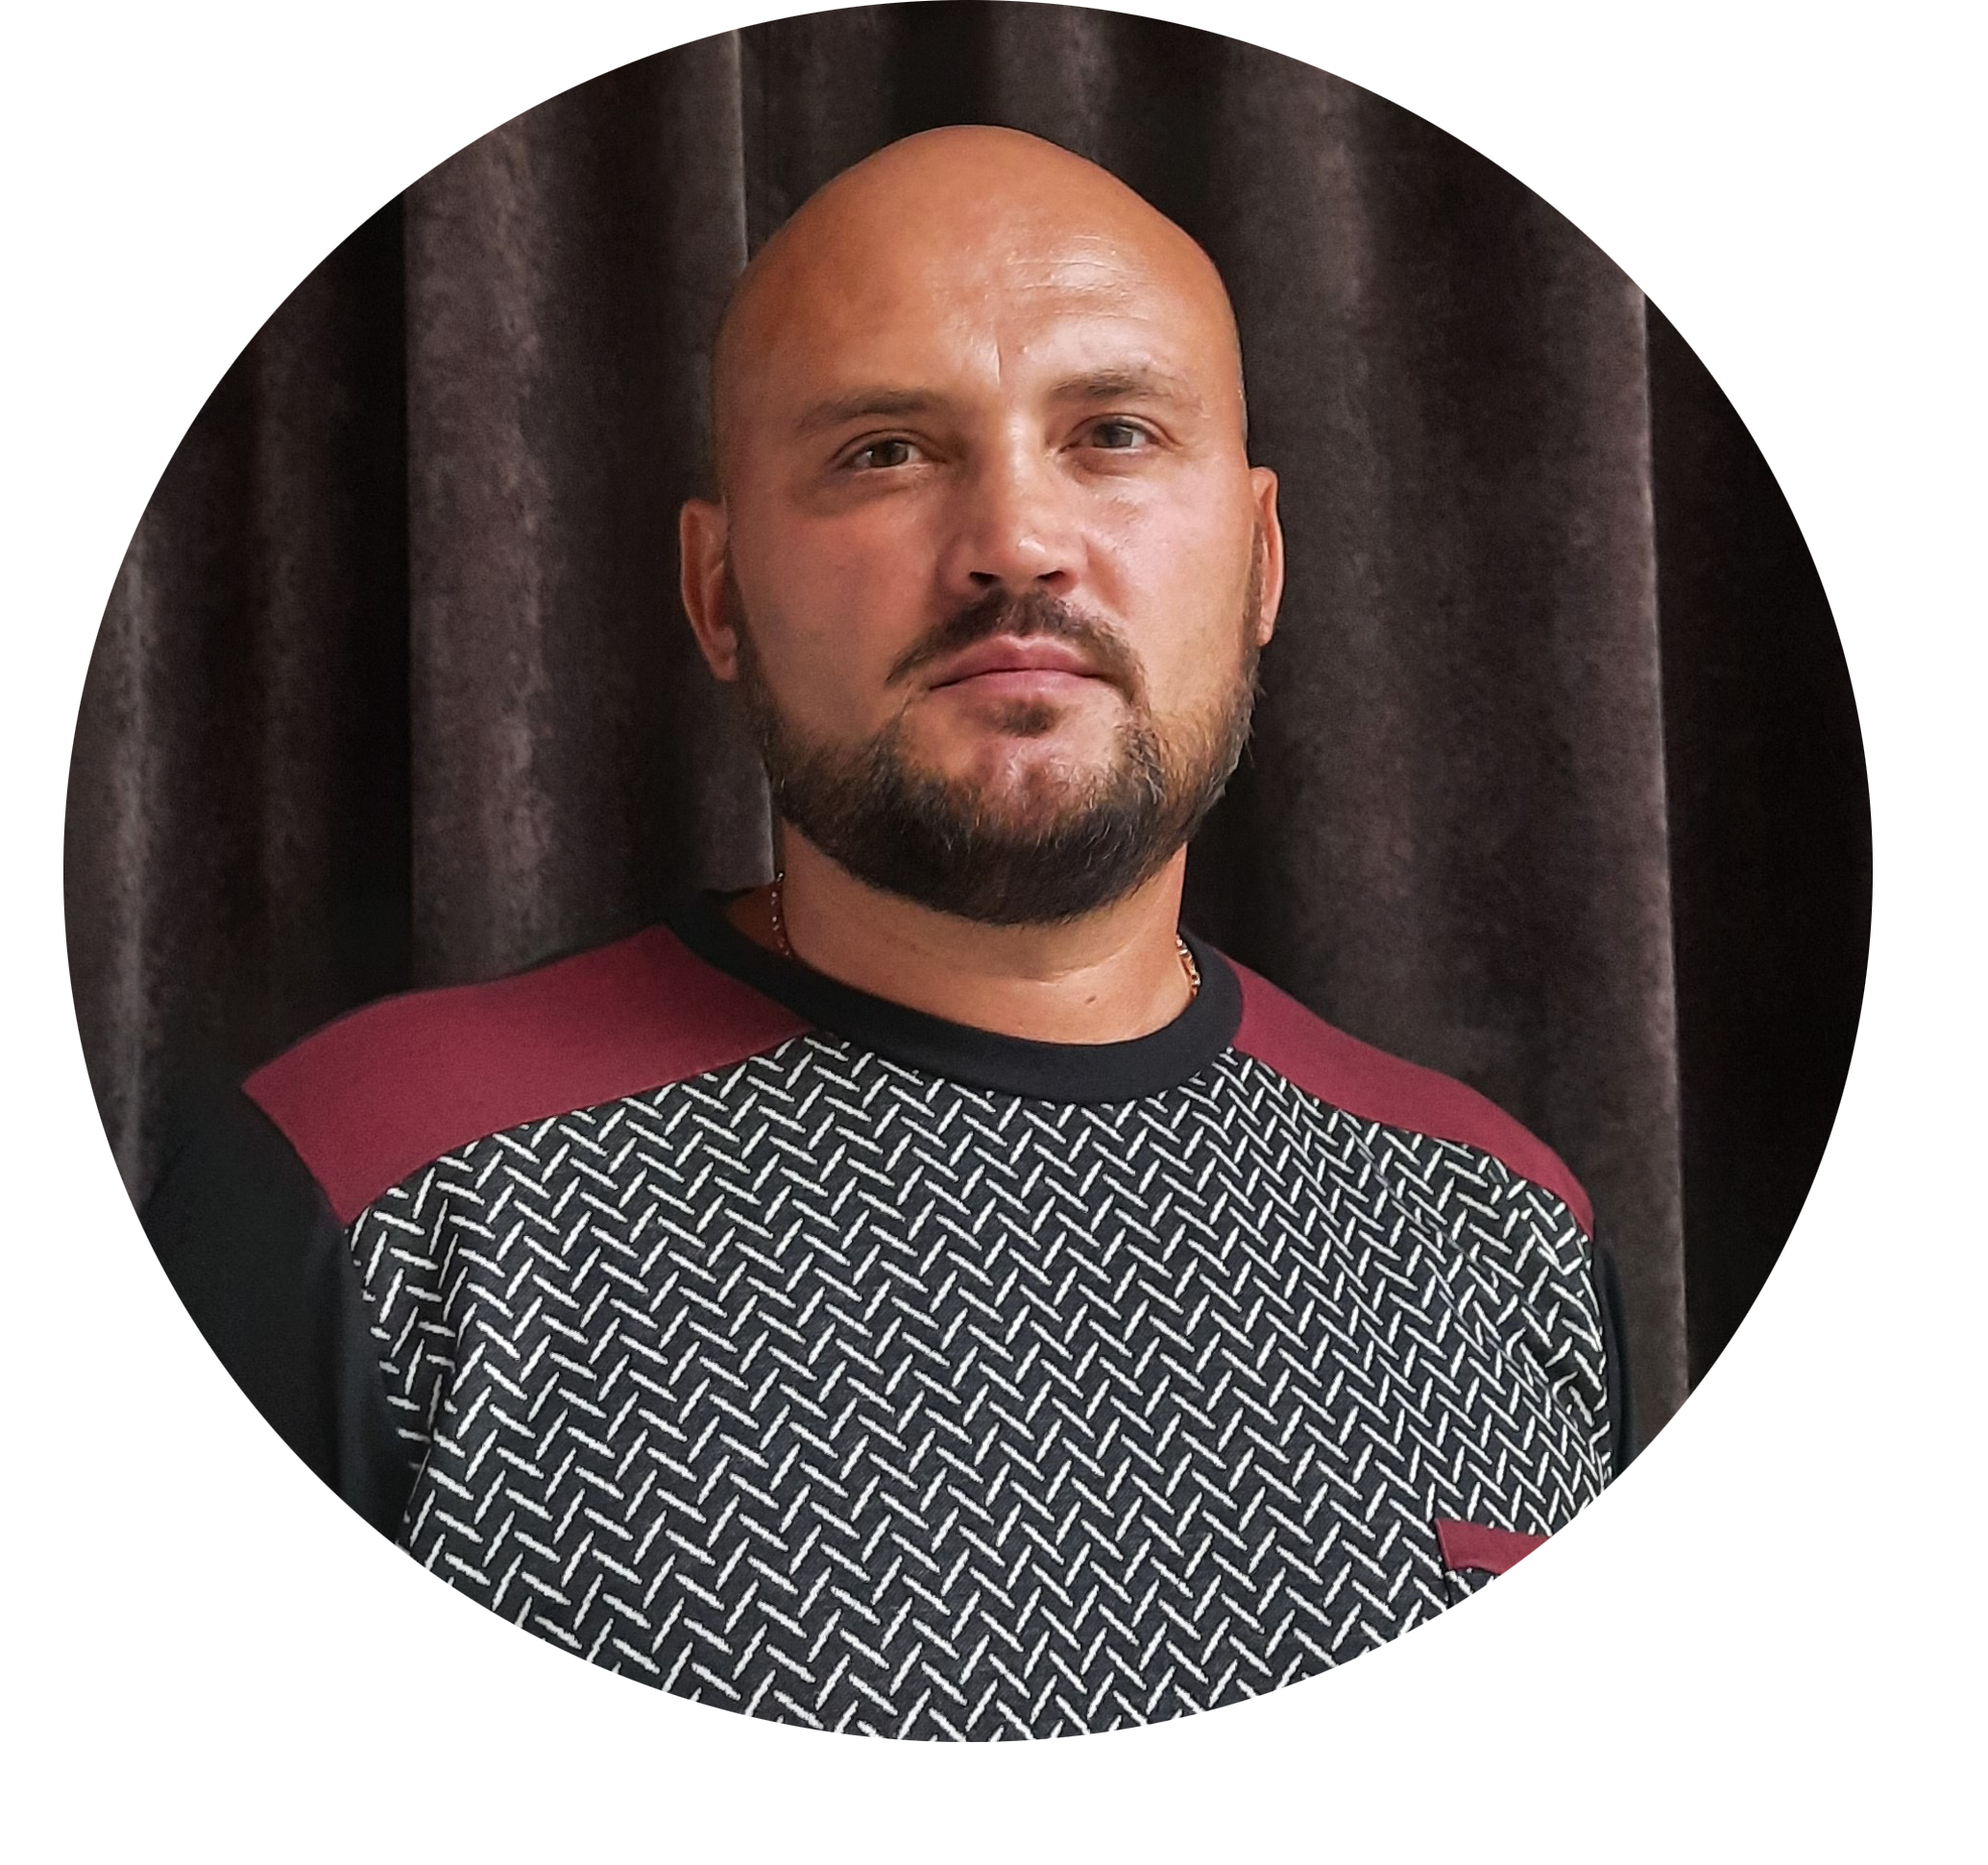
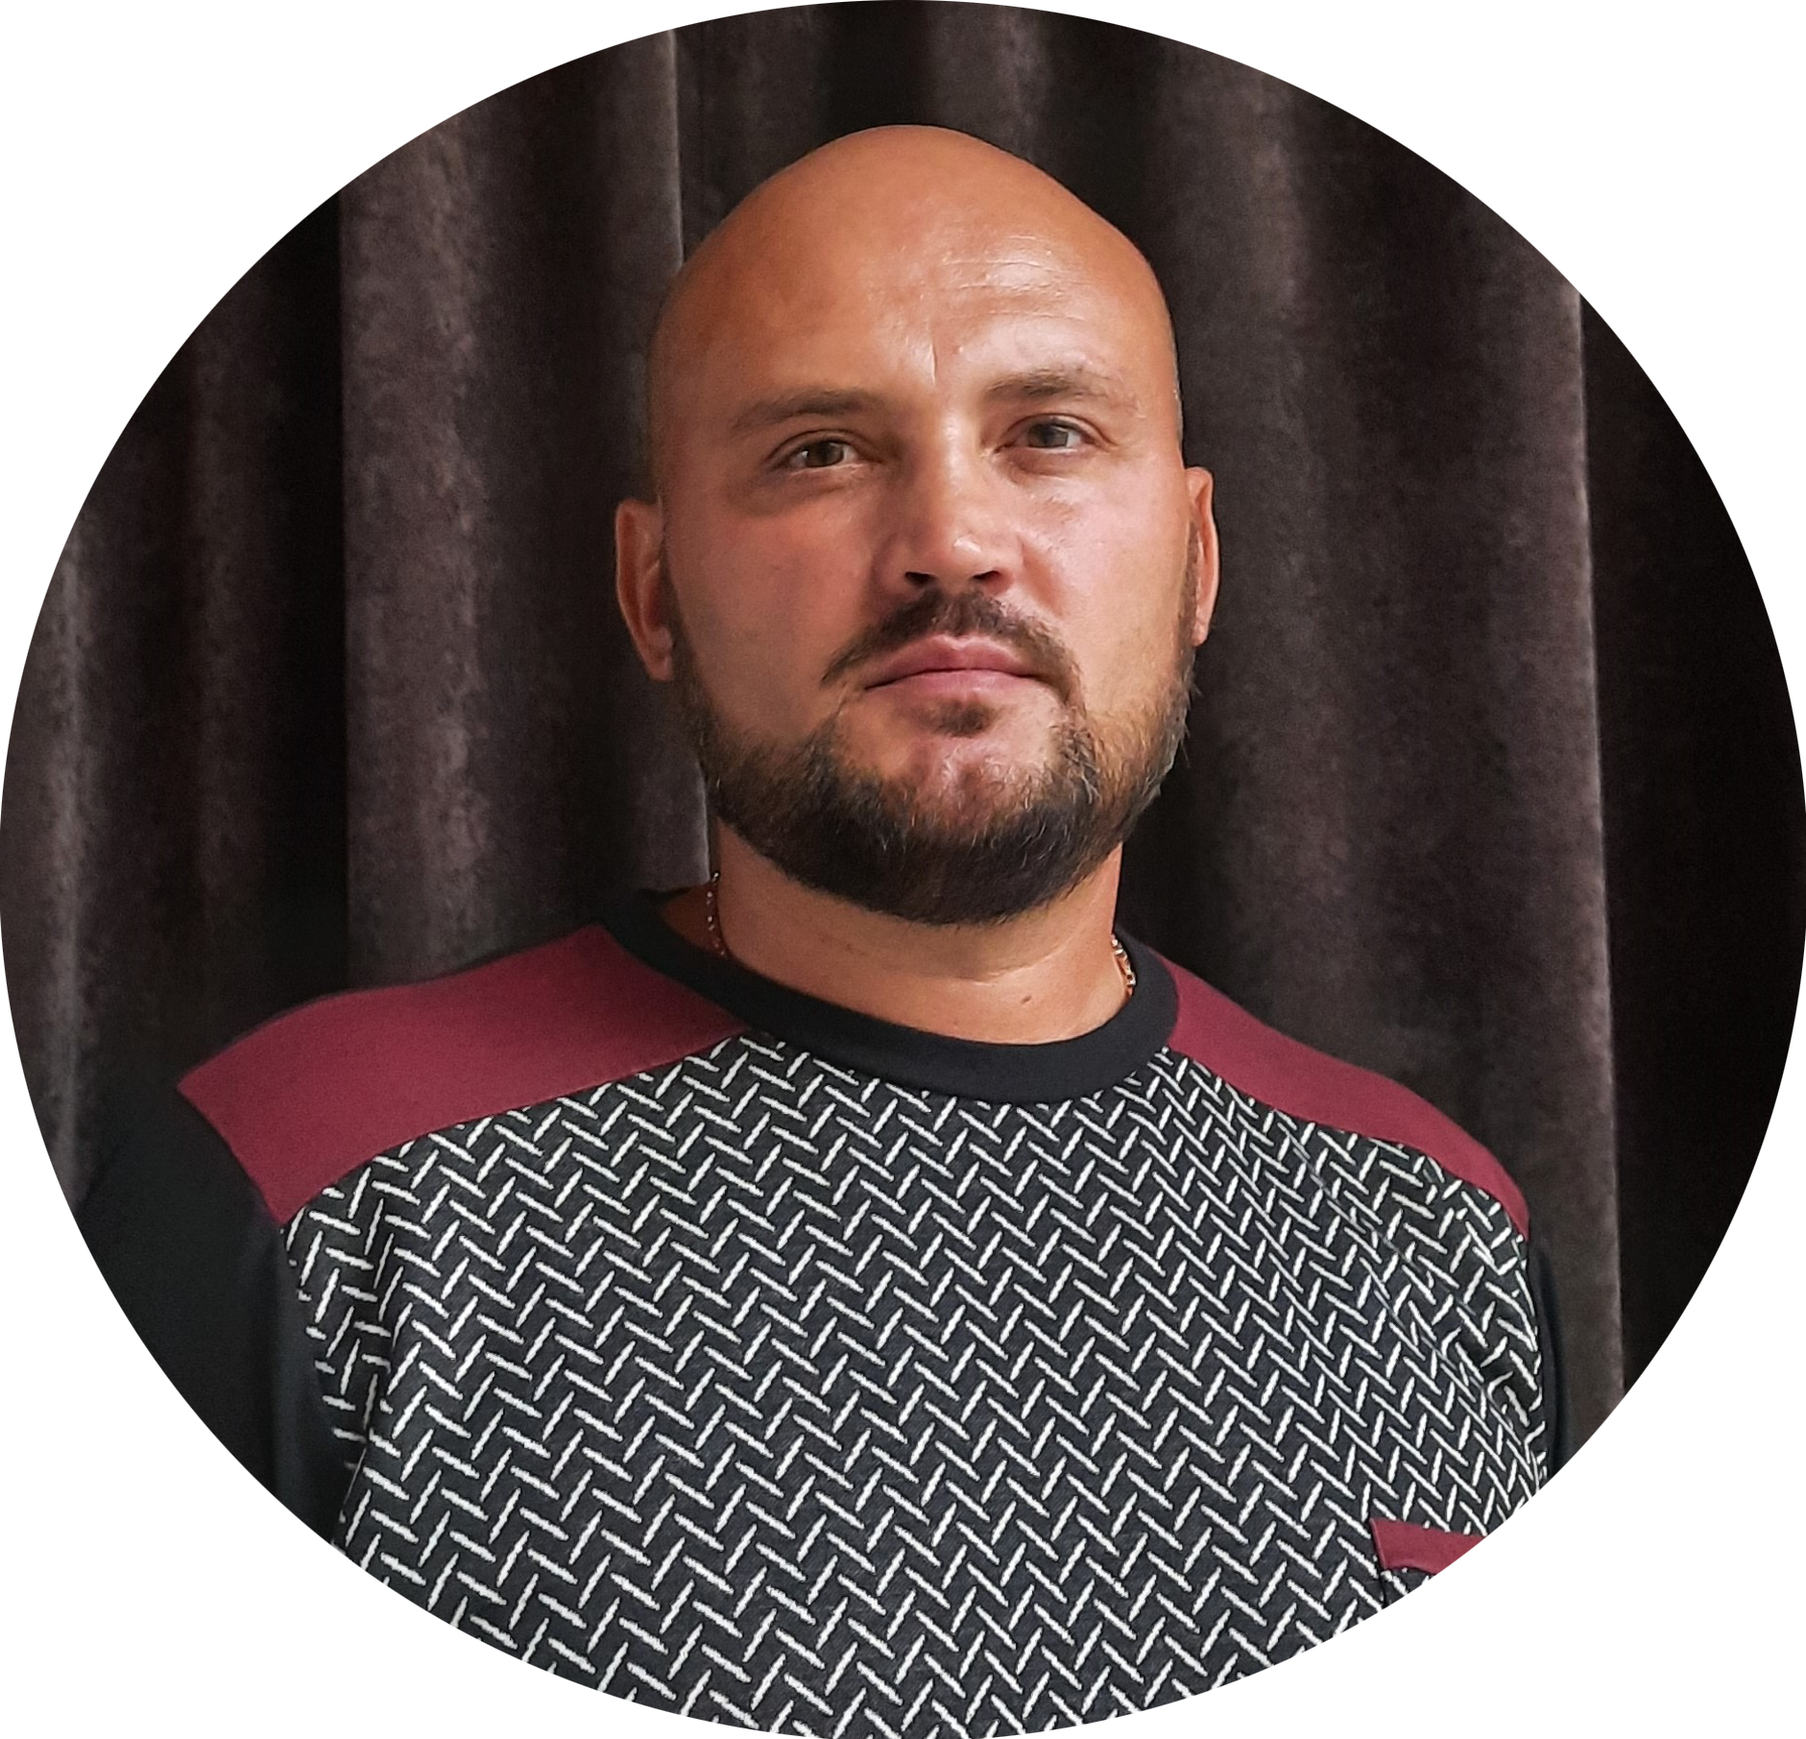
add img

diff --git a/aboutme.html b/aboutme.html
@@ -91,7 +91,6 @@
                 <a
                   class="contact__link contact__link--post"
                   href="mailto:info@devstudio.com"
-                  
                   rel="noopener nofollow noreferrer"
                   aria-label="електронная почта"
                 >
@@ -134,7 +133,7 @@
         <div class="fotome_img">
           <img
             class="fotome_img"
-            src="./images/foto.png"
+            src="./images/fotome-1200@2x.jpg"
             alt="Biletskyi Oleksii"
           />
         </div>
@@ -242,7 +241,6 @@
                   <a
                     class="adress__link adress__link--post"
                     href="aboutme.html"
-                    
                     rel="noopener nofollow noreferrer"
                   >
                     Oleksii Biletskyi
@@ -253,7 +251,6 @@
                     class="adress__link"
                     href="mailto:alenikbel@ukr.net"
                     lang="en"
-                    
                     rel="noopener nofollow noreferrer"
                     >alenikbel@ukr.net</a
                   >
@@ -341,7 +338,6 @@
           <a
             class="contact__link contact__link--post"
             href="mailto:alenikbel@ukr.net"
-           
             rel="noopener nofollow noreferrer"
             aria-label="електронная почта"
           >
@@ -377,7 +373,7 @@
         <li class="social-menu__item">
           <a
             href="https://www.instagram.com/aleksii_biletskyi/?next=%2F"
-             target="_blank"
+            target="_blank"
             class="social-menu__link social-menu__link--curent"
             aria-label="Компания"
             >Instagram</a
@@ -387,7 +383,7 @@
         <li class="social-menu__item">
           <a
             href="https://www.facebook.com/alenikbel/"
-             target="_blank"
+            target="_blank"
             class="social-menu__link social-menu__link--curent"
             aria-label="Компания"
             >Facebook</a

diff --git a/sass/aboutme.css b/sass/aboutme.css
@@ -408,7 +408,7 @@ body {
 .fotome_img {
   margin-left: auto;
   margin-right: auto;
-  width: 200px;
+  width: 180px;
   border-radius: 50%;
   box-shadow: 2px 2px 8px #afb1b8;
   transition: transform 0.2s;

diff --git a/sass/components/_about.scss b/sass/components/_about.scss
@@ -1,7 +1,7 @@
 .fotome_img {
   margin-left: auto;
   margin-right: auto;
-  width: 200px;
+  width: 180px;
   border-radius: 50%;
   box-shadow: 2px 2px 8px $client-color;
   transition: transform 0.2s;
